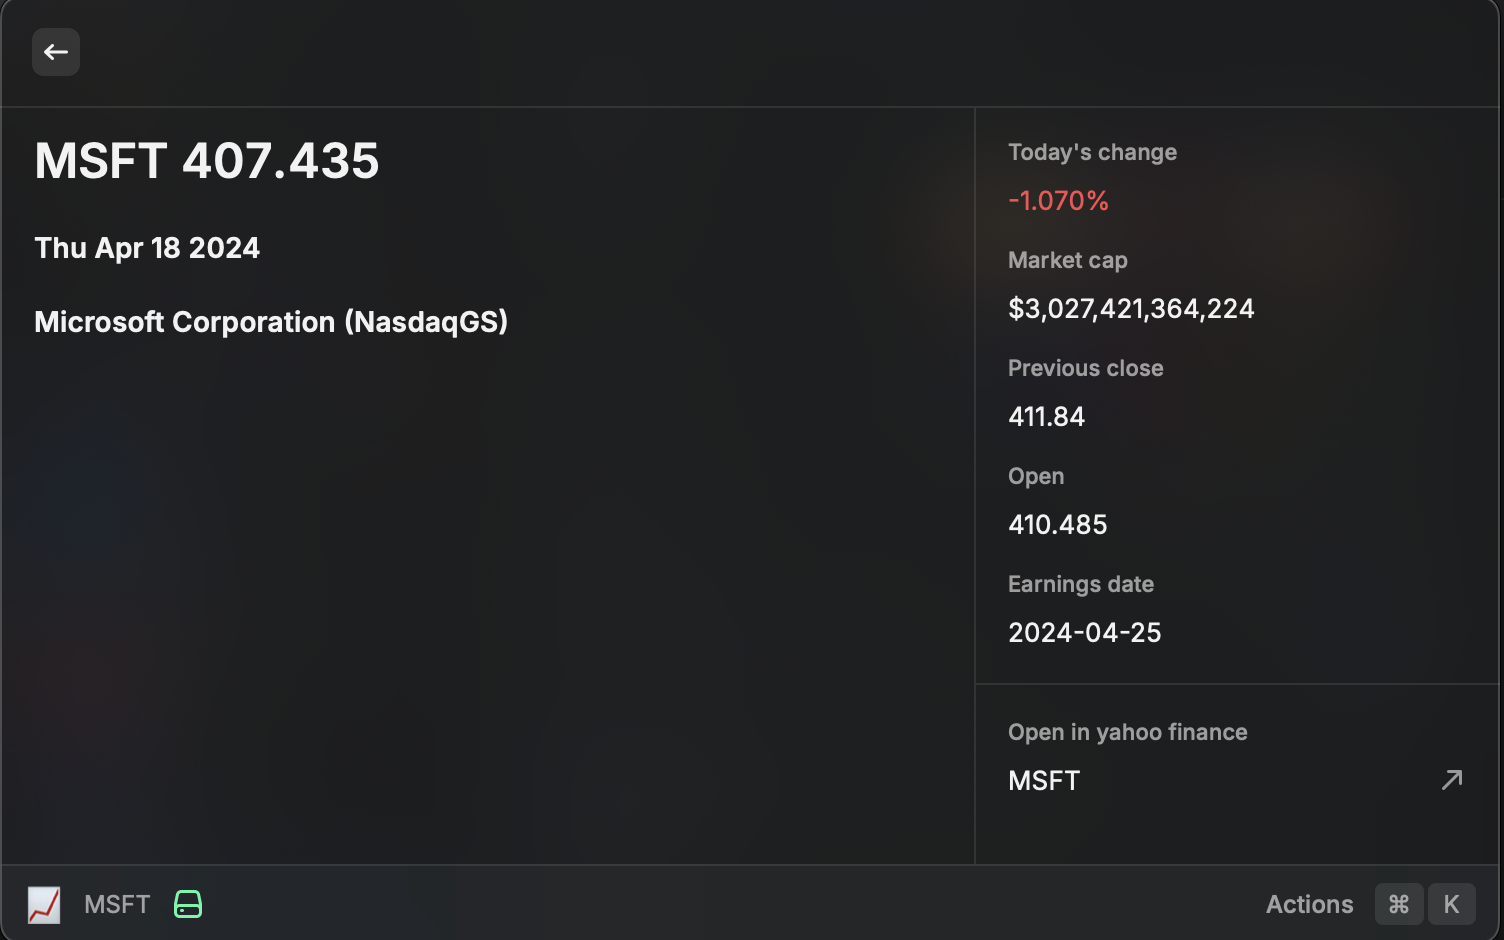
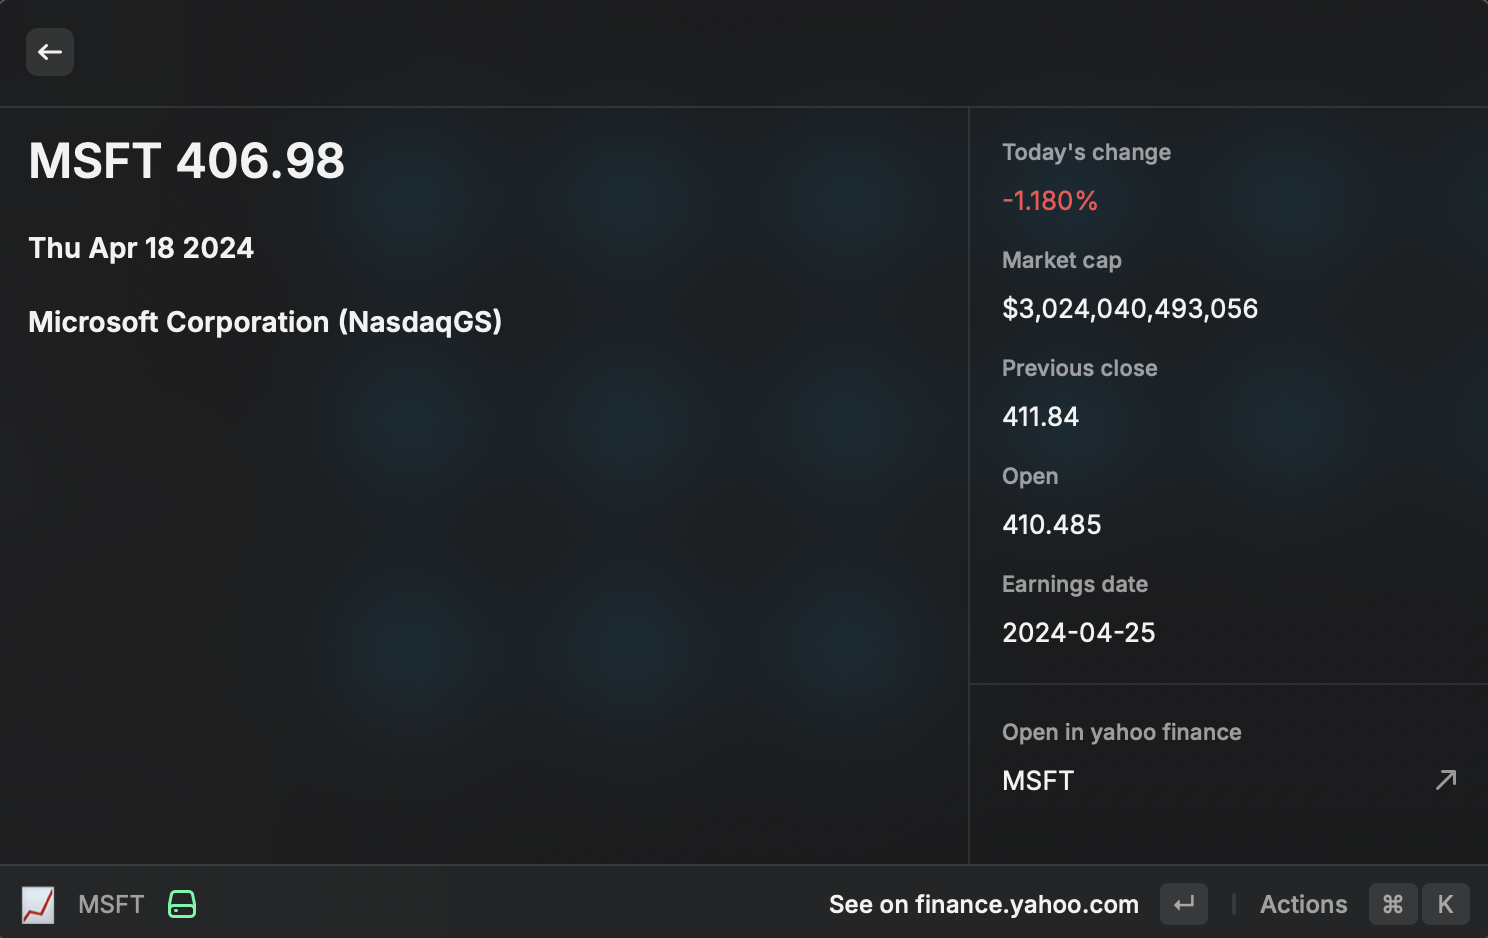
Add quick action in detail view to open on yf

diff --git a/src/index.tsx b/src/index.tsx
@@ -77,6 +77,14 @@ const QuoteView: React.FC<QuoteViewProps> = ({ symbol }) => {
         <Detail
           markdown={markdown(quote)}
           navigationTitle={`${quote.symbol}`}
+          actions={
+            <ActionPanel title="Quote menu">
+              <Action.OpenInBrowser
+                title="See on finance.yahoo.com"
+                url={`https://finance.yahoo.com/quote/${quote.symbol}`}
+              />
+            </ActionPanel>
+          }
           metadata={
             <Detail.Metadata>
               <Detail.Metadata.Label
